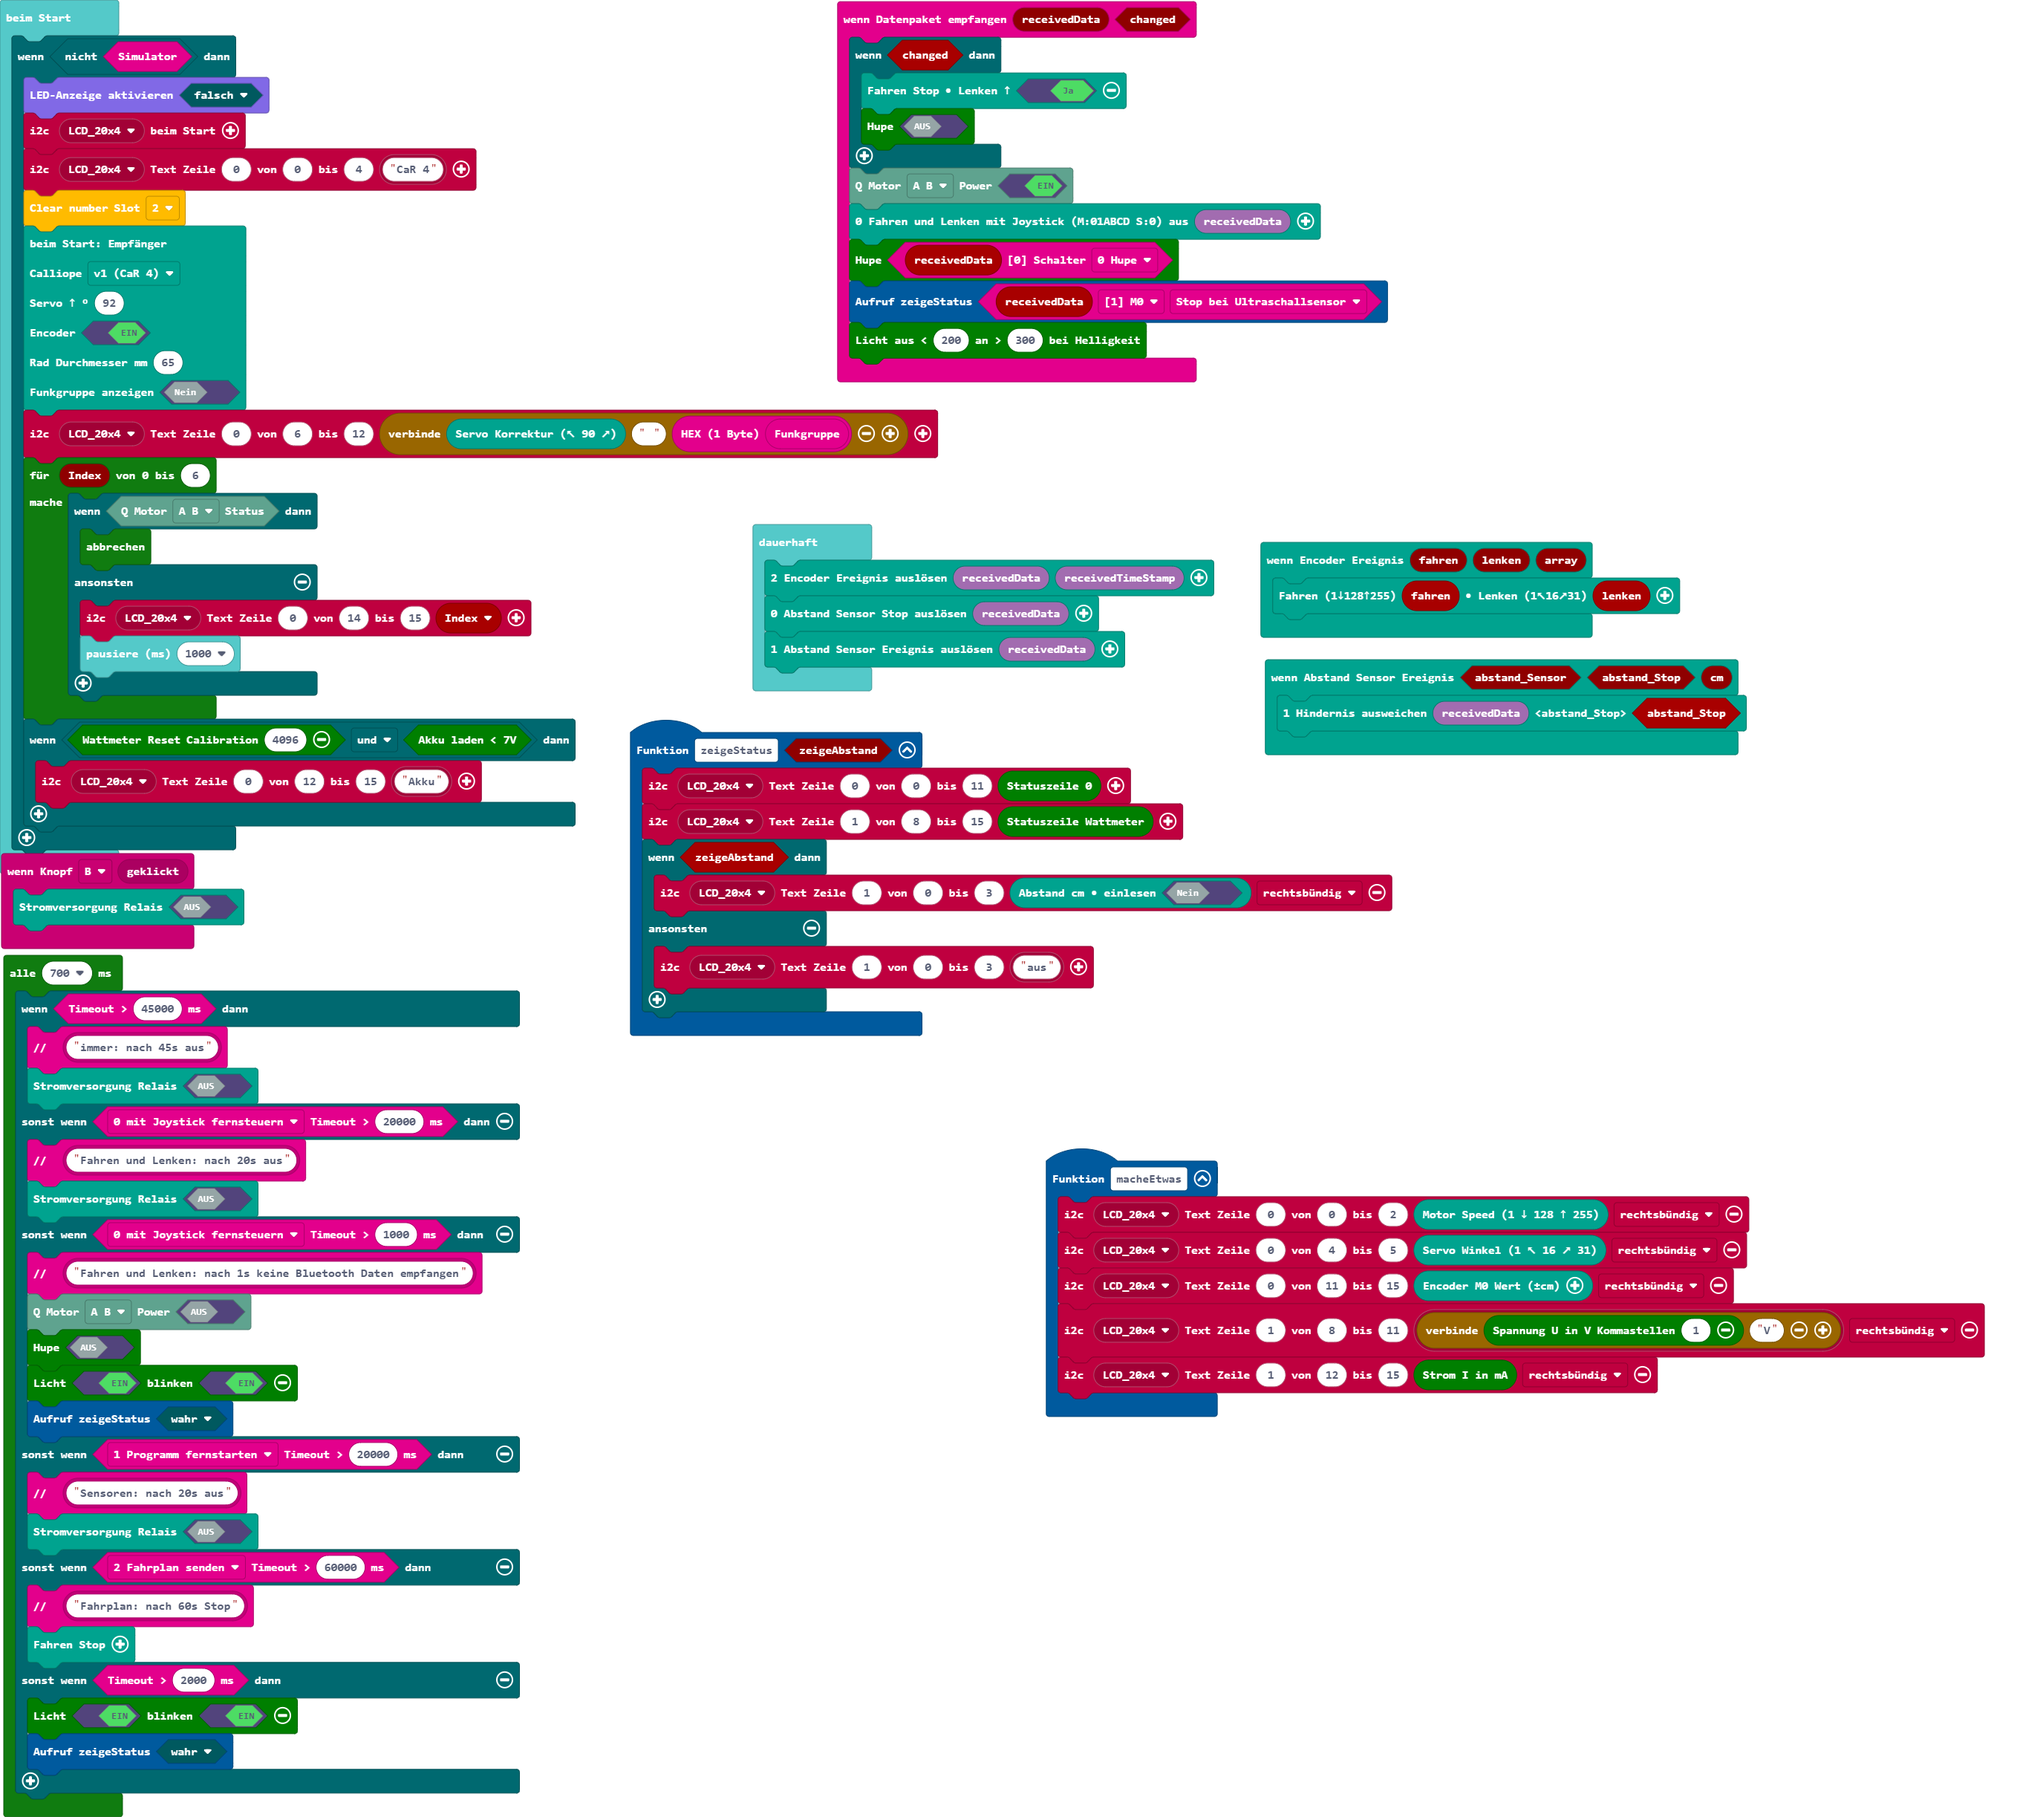
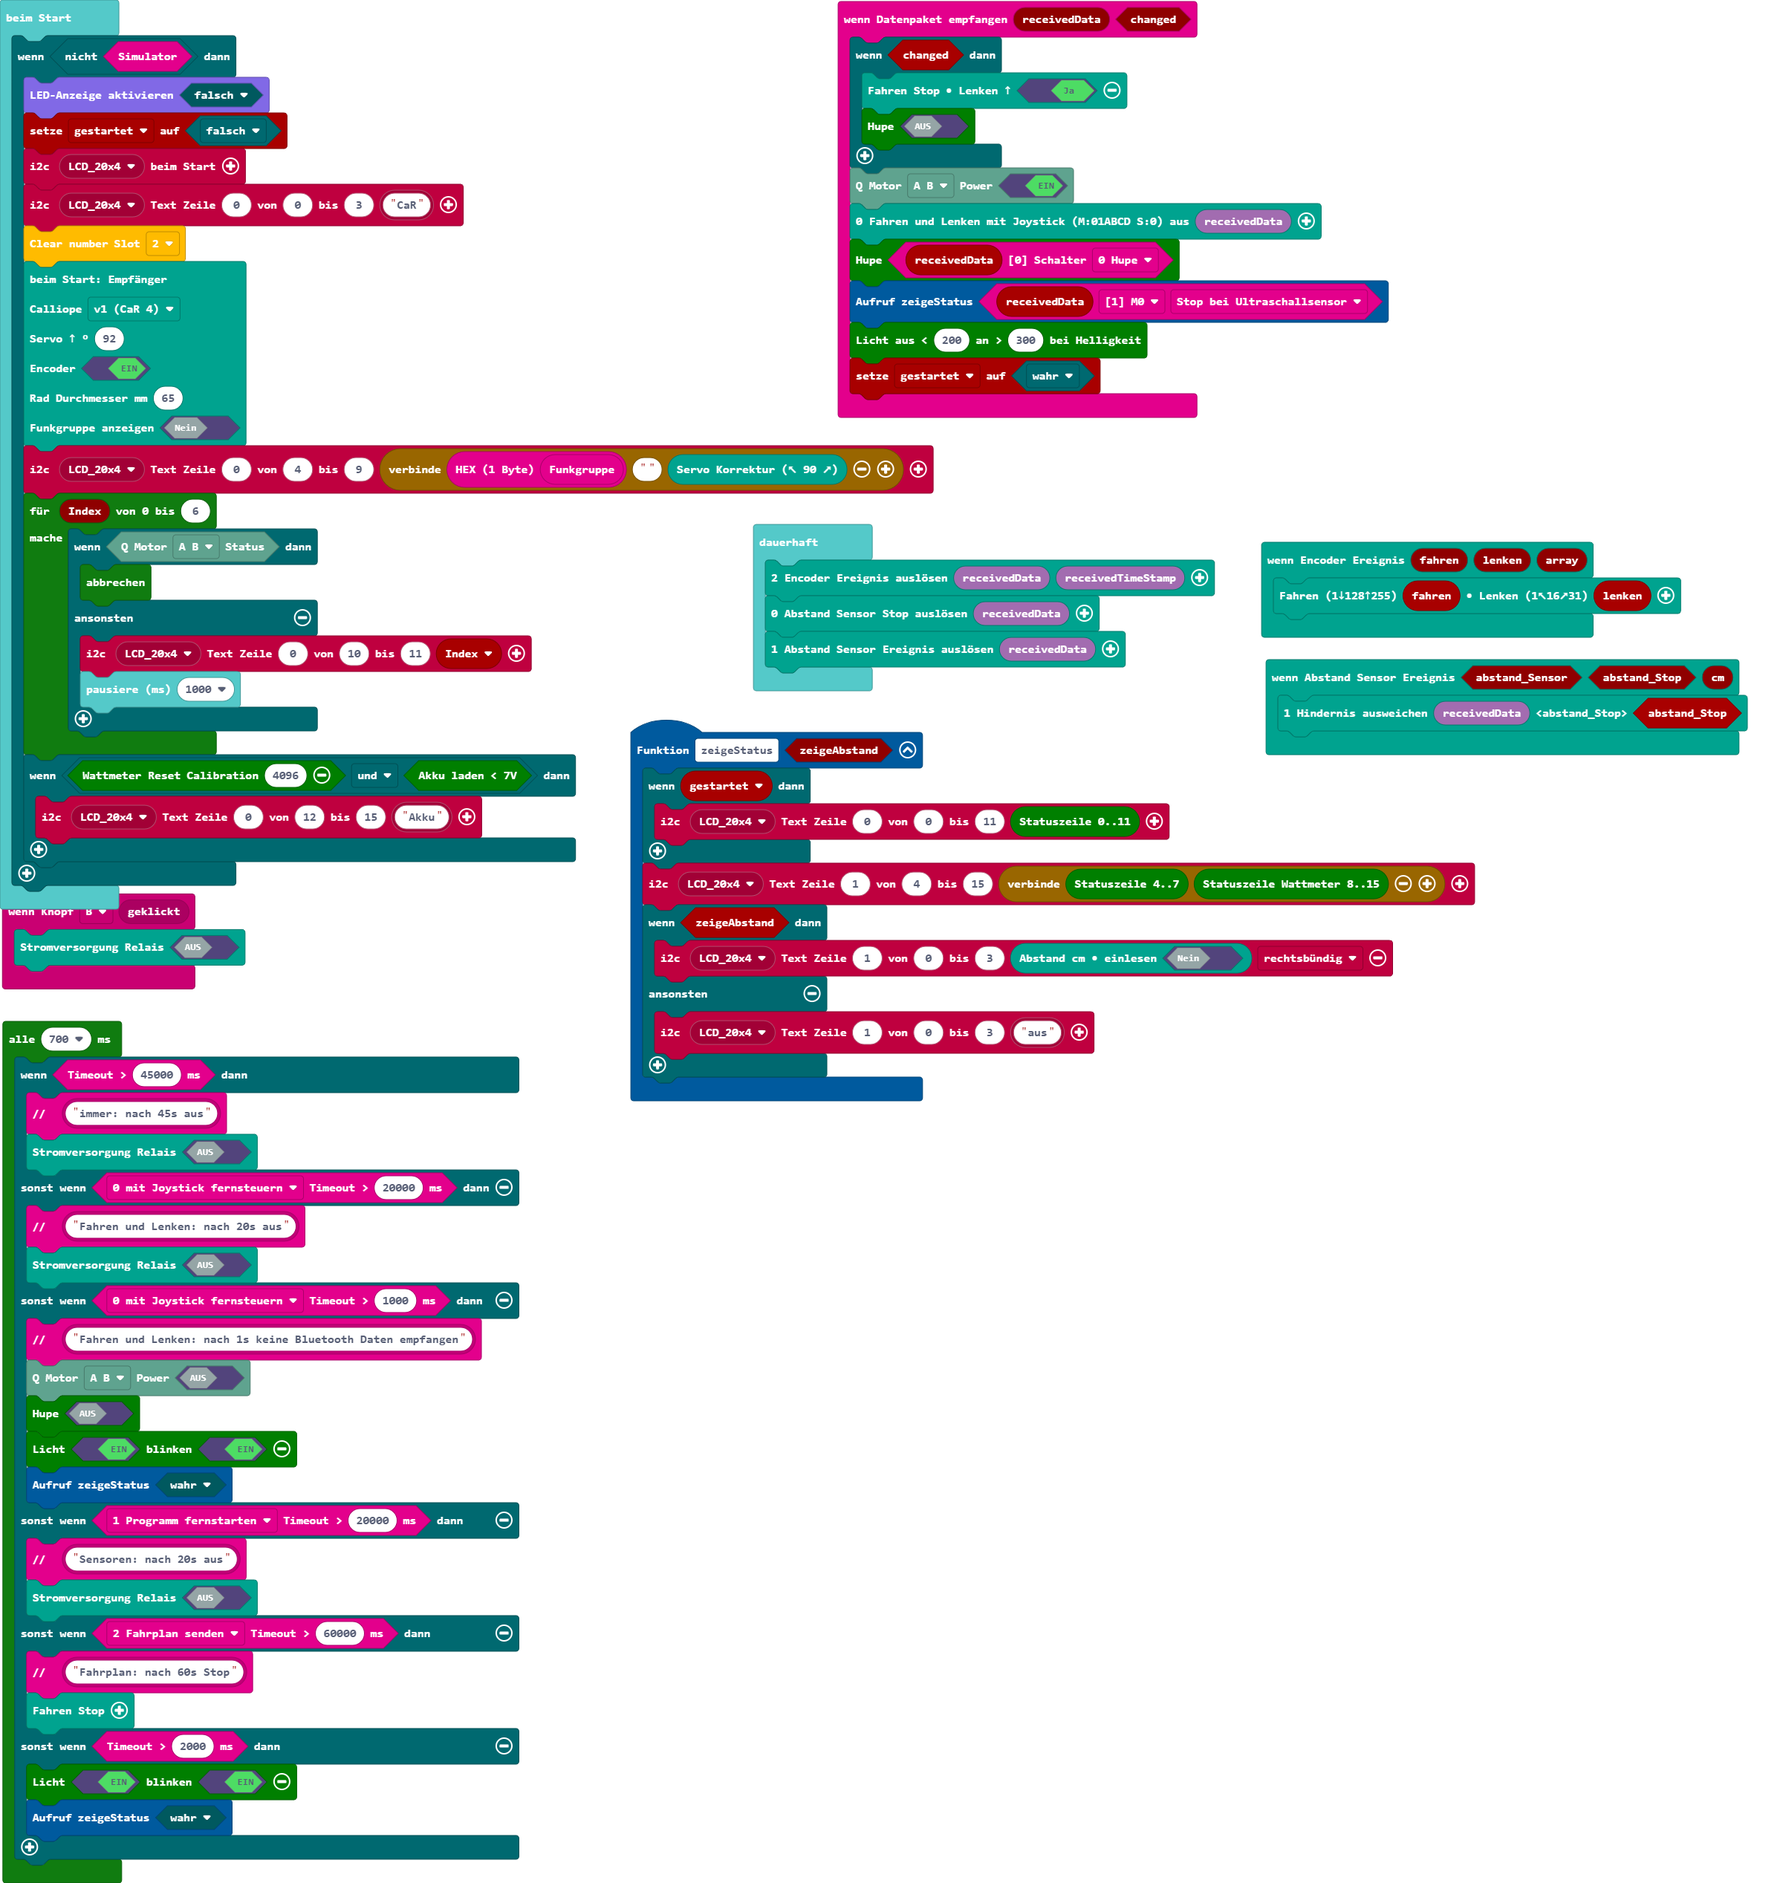
Aktualisiere main.blocks, main.ts, car4.ts, wattmeter.ts

diff --git a/main.ts b/main.ts
@@ -1,16 +1,11 @@
-function macheEtwas () {
-    lcd20x4.writeText(lcd20x4.lcd20x4_eADDR(lcd20x4.eADDR.LCD_20x4), 0, 0, 2, receiver.selectMotorSpeed(), lcd20x4.eAlign.right)
-    lcd20x4.writeText(lcd20x4.lcd20x4_eADDR(lcd20x4.eADDR.LCD_20x4), 0, 4, 5, receiver.pinServoWinkel(), lcd20x4.eAlign.right)
-    lcd20x4.writeText(lcd20x4.lcd20x4_eADDR(lcd20x4.eADDR.LCD_20x4), 0, 11, 15, receiver.encoderCounterM0(), lcd20x4.eAlign.right)
-    lcd20x4.writeText(lcd20x4.lcd20x4_eADDR(lcd20x4.eADDR.LCD_20x4), 1, 8, 11, lcd20x4.lcd20x4_text("" + car.wattmeterV(1) + "V"), lcd20x4.eAlign.right)
-    lcd20x4.writeText(lcd20x4.lcd20x4_eADDR(lcd20x4.eADDR.LCD_20x4), 1, 12, 15, car.wattmetermA(), lcd20x4.eAlign.right)
-}
 receiver.onEncoderEvent(function (fahren, lenken, array) {
     receiver.selectMotor128Servo16(fahren, lenken)
 })
 function zeigeStatus (zeigeAbstand: boolean) {
-    lcd20x4.writeText(lcd20x4.lcd20x4_eADDR(lcd20x4.eADDR.LCD_20x4), 0, 0, 11, car.statuszeile0())
-    lcd20x4.writeText(lcd20x4.lcd20x4_eADDR(lcd20x4.eADDR.LCD_20x4), 1, 8, 15, car.statuszeilew())
+    if (gestartet) {
+        lcd20x4.writeText(lcd20x4.lcd20x4_eADDR(lcd20x4.eADDR.LCD_20x4), 0, 0, 11, car.statuszeile0())
+    }
+    lcd20x4.writeText(lcd20x4.lcd20x4_eADDR(lcd20x4.eADDR.LCD_20x4), 1, 4, 15, "" + car.statuszeile1() + car.statuszeilew())
     if (zeigeAbstand) {
         lcd20x4.writeText(lcd20x4.lcd20x4_eADDR(lcd20x4.eADDR.LCD_20x4), 1, 0, 3, receiver.selectAbstand_cm(false), lcd20x4.eAlign.right)
     } else {
@@ -33,11 +28,14 @@ btf.onReceivedDataChanged(function (receivedData, changed) {
     car.buzzer(btf.getSchalter(receivedData, btf.e0Schalter.b0))
     zeigeStatus(btf.getSensor(receivedData, btf.eBufferPointer.m0, btf.eSensor.b6Abstand))
     car.licht_sensor(200, 300)
+    gestartet = true
 })
+let gestartet = false
 if (!(btf.simulator())) {
     led.enable(false)
+    gestartet = false
     lcd20x4.initLCD(lcd20x4.lcd20x4_eADDR(lcd20x4.eADDR.LCD_20x4))
-    lcd20x4.writeText(lcd20x4.lcd20x4_eADDR(lcd20x4.eADDR.LCD_20x4), 0, 0, 4, lcd20x4.lcd20x4_text("CaR 4"))
+    lcd20x4.writeText(lcd20x4.lcd20x4_eADDR(lcd20x4.eADDR.LCD_20x4), 0, 0, 3, lcd20x4.lcd20x4_text("CaR"))
     storage.removeNumber(StorageSlots.s2)
     receiver.beimStart(
     receiver.eHardware.car4,
@@ -46,12 +44,12 @@ if (!(btf.simulator())) {
     65,
     false
     )
-    lcd20x4.writeText(lcd20x4.lcd20x4_eADDR(lcd20x4.eADDR.LCD_20x4), 0, 6, 12, "" + receiver.pinServoKorrektur() + " " + btf.hex(btf.getStorageFunkgruppe()))
+    lcd20x4.writeText(lcd20x4.lcd20x4_eADDR(lcd20x4.eADDR.LCD_20x4), 0, 4, 9, "" + btf.hex(btf.getStorageFunkgruppe()) + "" + receiver.pinServoKorrektur())
     for (let Index = 0; Index <= 6; Index++) {
         if (receiver.qwiicMotorStatus(receiver.eQwiicMotorChip.ab)) {
             break;
         } else {
-            lcd20x4.writeText(lcd20x4.lcd20x4_eADDR(lcd20x4.eADDR.LCD_20x4), 0, 14, 15, Index)
+            lcd20x4.writeText(lcd20x4.lcd20x4_eADDR(lcd20x4.eADDR.LCD_20x4), 0, 10, 11, Index)
             basic.pause(1000)
         }
     }

diff --git a/car4.ts b/car4.ts
@@ -15,26 +15,37 @@ namespace car {
     //const pin10 = DigitalPin.C10
     //export const pinSpurlinks = DigitalPin.C11     // 9V fischertechnik 128598 IR-Spursensor
 
-   /*  function zeigeStatus() {
-        lcd20x4.writeText(lcd20x4.lcd20x4_eADDR(lcd20x4.eADDR.LCD_20x4), 0, 0, 2, receiver.selectMotorSpeed(), lcd20x4.eAlign.right)
-        lcd20x4.writeText(lcd20x4.lcd20x4_eADDR(lcd20x4.eADDR.LCD_20x4), 0, 4, 5, receiver.pinServoWinkel(), lcd20x4.eAlign.right)
-        lcd20x4.writeText(lcd20x4.lcd20x4_eADDR(lcd20x4.eADDR.LCD_20x4), 0, 11, 15, receiver.encoderCounterM0(), lcd20x4.eAlign.right)
-        lcd20x4.writeText(lcd20x4.lcd20x4_eADDR(lcd20x4.eADDR.LCD_20x4), 1, 8, 11, lcd20x4.lcd20x4_text("" + car.wattmeterV(1) + "V"), lcd20x4.eAlign.right)
-        lcd20x4.writeText(lcd20x4.lcd20x4_eADDR(lcd20x4.eADDR.LCD_20x4), 1, 12, 15, car.wattmetermA(), lcd20x4.eAlign.right)
-    } */
+    /*  function zeigeStatus() {
+         lcd20x4.writeText(lcd20x4.lcd20x4_eADDR(lcd20x4.eADDR.LCD_20x4), 0, 0, 2, receiver.selectMotorSpeed(), lcd20x4.eAlign.right)
+         lcd20x4.writeText(lcd20x4.lcd20x4_eADDR(lcd20x4.eADDR.LCD_20x4), 0, 4, 5, receiver.pinServoWinkel(), lcd20x4.eAlign.right)
+         lcd20x4.writeText(lcd20x4.lcd20x4_eADDR(lcd20x4.eADDR.LCD_20x4), 0, 11, 15, receiver.encoderCounterM0(), lcd20x4.eAlign.right)
+         lcd20x4.writeText(lcd20x4.lcd20x4_eADDR(lcd20x4.eADDR.LCD_20x4), 1, 8, 11, lcd20x4.lcd20x4_text("" + car.wattmeterV(1) + "V"), lcd20x4.eAlign.right)
+         lcd20x4.writeText(lcd20x4.lcd20x4_eADDR(lcd20x4.eADDR.LCD_20x4), 1, 12, 15, car.wattmetermA(), lcd20x4.eAlign.right)
+     } */
 
     //% group="Text" advanced=true
-    //% block="Statuszeile 0" weight=8
+    //% block="Statuszeile 0..11" weight=7
     export function statuszeile0() {
         return format(receiver.selectMotorSpeed(), 3, eAlign.right) +
             format(receiver.pinServoWinkel(), 3, eAlign.right) +
-            format(receiver.encoderCounterM0(), 5, eAlign.right)
+            format(receiver.encoderCounterM0(), 5, eAlign.right) + ' '
     }
 
-    
+    //% group="Text" advanced=true
+    //% block="Statuszeile 4..7" weight=6
+    export function statuszeile1() {
+        let receivedBuffer: Buffer = btf.btf_receivedBuffer19()
+        let qm = receiver.qwiicMotorChipStatus(receiver.eQwiicMotorChip.ab)
+        if (receivedBuffer) {
+            let ba = receivedBuffer[0] >> 4 & 0x03 // Betriebsart 0..3
+            return " " + ba.toString() + qm.toString() + " "
+        }
+        else
+            return "  " + qm.toString() + " "
+    }
 
     //% group="Text" advanced=true
-    //% block="format %pText || Länge %len %pAlign" weight=7
+    //% block="format %pText || Länge %len %pAlign" weight=3
     //% len.min=1 len.max=20 len.defl=4
     export function format(pText: any, len?: number, pAlign?: eAlign) {
         let text: string = convertToText(pText)

diff --git a/wattmeter.ts b/wattmeter.ts
@@ -59,7 +59,7 @@ namespace car { // wattmeter.ts
     }
 
     //% group="Wattmeter" advanced=true
-    //% block="Statuszeile Wattmeter" weight=1
+    //% block="Statuszeile Wattmeter 8..15" weight=1
     export function statuszeilew() {
         return format(wattmeterV(1), 3, eAlign.right) + "V" +
             format(wattmetermA(), 4, eAlign.right)
